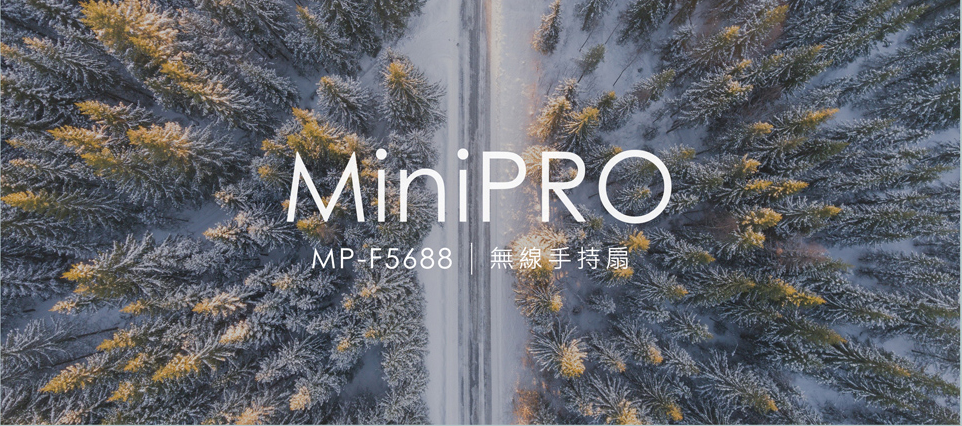
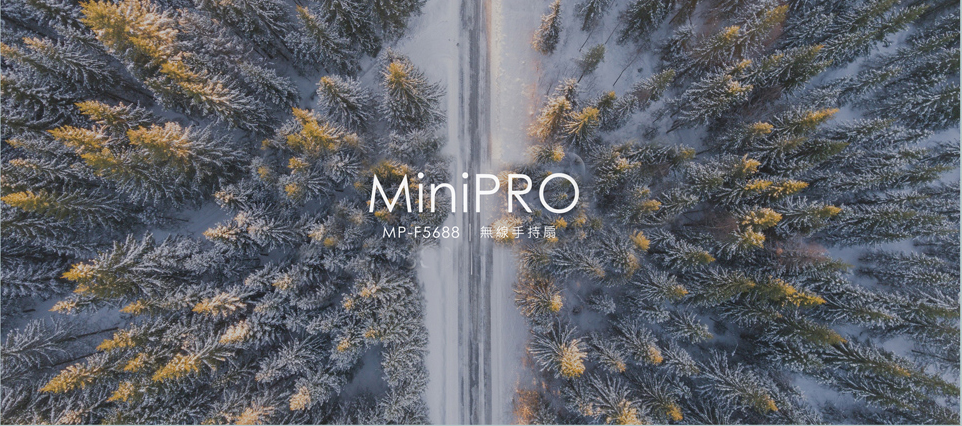
update style

Changed region(s): [[0.2495, 0.3052, 0.7173, 0.7324]]

diff --git a/index.html b/index.html
@@ -20,6 +20,7 @@
             height: 100vh;
         }
         .mountain{
+            width: 100%;
             height: 100%;
             object-fit: cover;
         }
@@ -49,15 +50,21 @@
             position: fixed;
             left:0px;
             top:0px;
+            width: 80vw;
             height: 100vh;
             transition: 1.5s;
             opacity: 0;
+            margin: 0 auto;
         }
         .secbox.active{
             opacity: 1;
         }
+        .secbox .col{
+            left: 10vw;
+            top: 15vh;
+        }
         .sm-mt{
-            min-width: 91px;
+            min-width: 90px;
             object-fit: cover;
         }
         .thirdbox{
@@ -139,19 +146,32 @@
         .sixbox.active{
             bottom:0;
         }
+        @media screen and (max-width:780px) {
+            .secbox .col{
+            left: 0vw;
+            top: 0vh;
+            padding: 10px;
+        }
+        .mountain{
+            /* width: 50w; */
+            height: 50%;
+            object-fit: cover;
+        }
+        
+        }
     </style>
 </head>
 
 <body>
     <header>
-    <img class="w-100 mountain" src="https://raw.githubusercontent.com/ccwang116/Product_demo_ScrollAnimation/gh-pages/images/titleimg.jpg" alt="">
+    <img class=" mountain" src="https://raw.githubusercontent.com/ccwang116/Product_demo_ScrollAnimation/gh-pages/images/titleimg.jpg" alt="">
     </header>
     <div class="w-100 bkbox"> 
         <div class="wtbox">
         </div>
-        <div class="w-100 row row-cols-md-2  row-cols-1 secbox flex-wrap"> 
+        <div class="row row-cols-md-2  row-cols-1 secbox flex-wrap"> 
             <div class="col">
-                <img class=" sm-mt" src="https://raw.githubusercontent.com/ccwang116/Product_demo_ScrollAnimation/gh-pages/images/sm-mt.jpg" alt="">
+                <img class="sm-mt" src="https://raw.githubusercontent.com/ccwang116/Product_demo_ScrollAnimation/gh-pages/images/sm-mt.jpg" alt="">
             </div>
             <div class="col">
                 <h2 class="mt-5 ml-5">雪山白<br>
@@ -163,7 +183,7 @@
             </div>
         </div>
         <div class="thirdbox w-100">
-            <h3 class=" position-absolute left-0  text-center" style="top: 10vh;">MiniPRO鹿善<br>
+            <h3 class="w-100 position-absolute" style="left:50px;top: 10vh;">MiniPRO鹿善<br>
                 手持·美學<br>
                 美麗掌握在手裡</h3>
                 
@@ -173,13 +193,13 @@
             <img class="w-100 pdimg" src="https://raw.githubusercontent.com/ccwang116/Product_demo_ScrollAnimation/gh-pages/images/mainProduct.png" alt="">
         </div>
         <div class="ffbox">
-            <h3 class="text-white mt-5">黑色經典不凡</h3>
+            <h3 class="text-white mt-5"></h3>
         </div>
         <div class="fivebox">
             <img class="w-100 bkimg" src="https://raw.githubusercontent.com/ccwang116/Product_demo_ScrollAnimation/gh-pages/images/bkProduct.png" alt="">
         </div>
         <div class="sixbox">
-            <h3 class="w-100 position-absolute" style="left:50px;top: 10vh;">MiniPRO鹿善<br>
+            <h3 class="w-100 position-absolute" style="left:50px;top: 10vh;">黑色經典不凡<br>
                 美感實用,内外兼具 </h3>
                 <p class="m-0 w-100 position-absolute" style="left:50px;top: calc(10vh + 66px)">
                 MiniPRO鹿善的設計採用優質材料和先進工藝,<br>簡約流線型輕量化設計,<br>
@@ -201,6 +221,7 @@
         integrity="sha384-JjSmVgyd0p3pXB1rRibZUAYoIIy6OrQ6VrjIEaFf/nJGzIxFDsf4x0xIM+B07jRM"
         crossorigin="anonymous"></script>
     <script>
+        let space = 300;
         let navPosition = $(".bkbox").offset()
         console.log(navPosition)
         $(window).scroll(function () {
@@ -208,12 +229,12 @@
             if (scrolhi > navPosition.top) { $(".bkbox").addClass("fixed-top") } else {
                 $(".bkbox").removeClass("fixed-top")
             }
-            if(scrolhi>300 && scrolhi<=500){
+            if(scrolhi > space && scrolhi<= (2 * space)){
                 $(".wtbox").addClass("active")
-            }else if(scrolhi>500 && scrolhi<=875){
+            }else if(scrolhi>2 * space && scrolhi <= 3 * space){
                 $(".wtbox").addClass("active2")
                 $(".secbox").addClass("active")
-            }else if(scrolhi>875&& scrolhi<=1066){
+            }else if(scrolhi>900 && scrolhi<=1066){
                 $(".secbox").removeClass("active")
                 $(".thirdbox").addClass("active")
             }else if(scrolhi>1066&& scrolhi<=1400){
